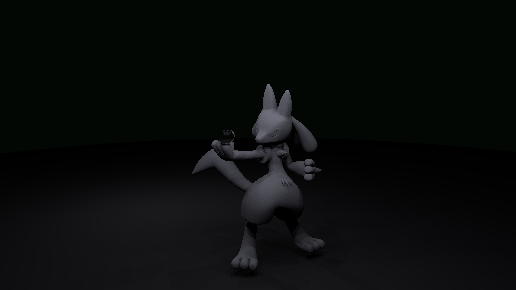
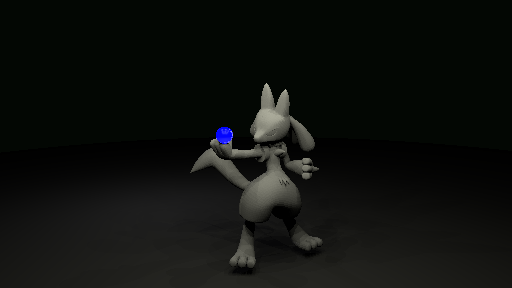
add refraction/reflection, ior

Changed region(s): [[0.375, 0.2812, 0.625, 0.75], [0.4375, 0.8125, 0.5, 0.9375], [0.5625, 0.8125, 0.625, 0.875]]

diff --git a/ray.py b/ray.py
@@ -33,10 +33,8 @@ class Ray:
         self.start = start
         self.end = end
 
-
 class Material:
-
-    def __init__(self, k_d, k_s=0., p=20., k_m=0., k_a=None, texture_filename=None):
+    def __init__(self, k_d, k_s=0., p=20., k_m=0., k_a=None, texture_filename=None, k_t=0., ior=1.0, k_e=0.):
         """Create a new material with the given parameters.
 
         Parameters:
@@ -45,6 +43,10 @@ class Material:
           p : float -- the specular exponent
           k_m : (3,) or float -- the mirror reflection coefficient
           k_a : (3,) -- the ambient coefficient (defaults to match diffuse color)
+          texture_filename : str -- Path to the texture file
+          k_t : (3,) or float -- Transmission (refraction) coefficient (NEW)
+          ior : float -- Index of Refraction (NEW)
+          k_e : (3,) or float -- Emissive coefficient (glow) (NEW)
         """
         self.k_d = k_d
         self.k_s = k_s
@@ -54,7 +56,9 @@ class Material:
         self.texture_map = None
         if texture_filename:
             self.texture_map = load_image(texture_filename)
-
+        self.k_t = k_t
+        self.ior = ior
+        self.k_e = k_e
 
 class Hit:
     def __init__(self, t, point=None, normal=None, material=None, uv=None):
@@ -401,33 +405,23 @@ class PointLight:
         self.intensity = intensity
 
     def illuminate(self, ray, hit, scene, k_a, k_d, k_s, p):
-        """Compute the shading at a surface point due to this light.
-
-        Parameters:
-          ray : Ray -- the ray that hit the surface
-          hit : Hit -- the hit data
-          scene : Scene -- the scene, for shadow rays
-          k_a, k_d, k_s, p : Material properties -- effective material properties at the hit point
-        Return:
-          (3,) -- the light reflected from the surface
-        """
+        """Compute the shading at a surface point due to this light."""
         light_vec_full = self.position - hit.point
         dist_sq = np.dot(light_vec_full, light_vec_full)
         
         light_vec = normalize(light_vec_full)
-
-        # part 5: shadow ray — use fast occlusion test (no full Hit needed)
         dist = np.sqrt(dist_sq)
         eps = 1e-5
         shadow_ray = Ray(
             origin=hit.point + eps * hit.normal,
             direction=light_vec,
-            start=eps,
+            start=0.0,
             end=dist - eps
         )
-        if hasattr(scene, 'is_occluded') and scene.is_occluded(shadow_ray):
+        if scene.is_occluded(shadow_ray):
             return np.zeros(3)
 
+        # Shading
         normal_hit = hit.normal
         view_vec = normalize(ray.origin - hit.point)
         halfway_vec = normalize(light_vec + view_vec)
@@ -437,7 +431,7 @@ class PointLight:
         diffuse = max(0.0, np.dot(normal_hit, light_vec))
         specular  = k_s * (max(0.0, np.dot(normal_hit, halfway_vec)) ** p)
 
-        return (k_d + specular) * intensity_attenuated * diffuse
+        return (k_d * diffuse + specular) * intensity_attenuated
 
 class AmbientLight:
 
@@ -503,64 +497,101 @@ class Scene:
 MAX_DEPTH = 4
 
 def shade(ray, hit, scene, lights, depth=0):
-    """Compute shading for a ray-surface intersection.
-
-    Parameters:
-      ray : Ray -- the ray that hit the surface
-      hit : Hit -- the hit data
-      scene : Scene -- the scene
-      lights : [PointLight or AmbientLight] -- the lights
-      depth : int -- the recursion depth so far
-    Return:
-      (3,) -- the color seen along this ray
-    When mirror reflection is being computed, recursion will only proceed to a depth
-    of MAX_DEPTH, with zero contribution beyond that depth.
-    """
+    """Compute shading for a ray-surface intersection."""
     color = np.array([0.0, 0.0, 0.0])
-
+    mat = hit.material
     tex_color = None
-    if hit.material.texture_map is not None and hit.uv is not None:
-        tex_map = hit.material.texture_map
+    if mat.texture_map is not None and hit.uv is not None:
+        tex_map = mat.texture_map
         uv = hit.uv
         u_coord = uv[0] % 1.0
         v_coord = (1.0 - uv[1]) % 1.0
         
         tex_h, tex_w, _ = tex_map.shape
-        
-        x = int(u_coord * tex_w)
-        y = int(v_coord * tex_h)
-        
-        x = min(max(x, 0), tex_w - 1)
-        y = min(max(y, 0), tex_h - 1)
+        x = int(u_coord * (tex_w - 1))
+        y = int(v_coord * (tex_h - 1))
         
         tex_color = tex_map[y, x]
   
-    k_d_eff = tex_color if tex_color is not None else hit.material.k_d
-    k_s_eff = hit.material.k_s
-    p_eff = hit.material.p
-    k_m_eff = hit.material.k_m
-    
-    k_a_eff = hit.material.k_a
-    if tex_color is not None and np.array_equal(hit.material.k_a, hit.material.k_d):
+    k_d_eff = tex_color if tex_color is not None else mat.k_d
+    k_s_eff = mat.k_s
+    p_eff = mat.p
+    k_m_eff = mat.k_m
+    k_a_eff = mat.k_a
+    if tex_color is not None and np.array_equal(mat.k_a, mat.k_d):
         k_a_eff = tex_color
-
+    
+    k_t_eff = mat.k_t
+    ior_eff = mat.ior
+    k_e_eff = mat.k_e
     for light in lights:
         color += light.illuminate(ray, hit, scene, k_a_eff, k_d_eff, k_s_eff, p_eff)
 
-    if np.any(k_m_eff > 0) and depth < MAX_DEPTH:
-        hit_norm = hit.normal
-        direction_norm = normalize(ray.direction)
-        reflection_direction = normalize(direction_norm - 2.0 * np.dot(direction_norm, hit_norm) * hit_norm)
+    hit_norm = hit.normal
+    view_vec = normalize(ray.origin - hit.point)
+    eps = 1e-5 
 
-        eps = 1e-5
-        reflection_ray = Ray(origin=hit.point + eps * hit_norm, direction=reflection_direction)
+    if np.any(k_m_eff > 0) and depth < MAX_DEPTH:
+        reflection_dir = normalize(2.0 * np.dot(view_vec, hit_norm) * hit_norm - view_vec)
+        reflection_ray = Ray(origin=hit.point + eps * hit_norm, direction=reflection_dir)
+        
         reflection_hit = scene.intersect(reflection_ray)
         if reflection_hit.t < np.inf:
             reflection_color = shade(reflection_ray, reflection_hit, scene, lights, depth + 1)
         else:
             reflection_color = scene.bg_color
-
         color += np.array(k_m_eff) * reflection_color
+        
+    if np.any(k_t_eff > 0) and depth < MAX_DEPTH:
+        eta_in = 1.0
+        eta_out = ior_eff 
+        
+        cos_i = np.dot(hit_norm, view_vec)
+        
+        incident_norm = hit_norm
+        if cos_i < 0:
+            cos_i = -cos_i
+            eta_in, eta_out = eta_out, eta_in
+            incident_norm = -hit_norm
+        
+        eta = eta_in / eta_out
+        k = 1.0 - eta*eta * (1.0 - cos_i*cos_i)
+        
+        R0 = ((eta_in - eta_out) / (eta_in + eta_out))**2
+        reflectance = R0 + (1.0 - R0) * (1.0 - cos_i)**5
+        
+        if k < 0:
+            reflection_dir = normalize(view_vec - 2.0 * np.dot(view_vec, incident_norm) * incident_norm)
+            reflection_ray = Ray(origin=hit.point + eps * incident_norm, direction=reflection_dir)
+            reflection_hit = scene.intersect(reflection_ray)
+            if reflection_hit.t < np.inf:
+                reflection_color = shade(reflection_ray, reflection_hit, scene, lights, depth + 1)
+            else:
+                reflection_color = scene.bg_color
+            color += np.array(k_t_eff) * reflection_color
+        
+        else:
+            refraction_dir = normalize(eta * (view_vec - incident_norm * cos_i) - incident_norm * np.sqrt(k))
+            refraction_ray = Ray(origin=hit.point - eps * incident_norm, direction=refraction_dir) # Move origin "inside"
+            
+            refraction_hit = scene.intersect(refraction_ray)
+            if refraction_hit.t < np.inf:
+                refraction_color = shade(refraction_ray, refraction_hit, scene, lights, depth + 1)
+            else:
+                refraction_color = scene.bg_color
+            
+            reflection_dir = normalize(view_vec - 2.0 * cos_i * incident_norm)
+            reflection_ray = Ray(origin=hit.point + eps * incident_norm, direction=reflection_dir) # Move origin "outside"
+            
+            reflection_hit = scene.intersect(reflection_ray)
+            if reflection_hit.t < np.inf:
+                reflection_color = shade(reflection_ray, reflection_hit, scene, lights, depth + 1)
+            else:
+                reflection_color = scene.bg_color
+
+            color += np.array(k_t_eff) * (reflectance * reflection_color + (1.0 - reflectance) * refraction_color)
+
+    color += np.array(k_e_eff)
         
     return color
 

diff --git a/pokemon_scene.py b/pokemon_scene.py
@@ -33,7 +33,11 @@ ball_mat = Material(
     k_s=vec([0.8, 0.8, 0.8]),  # white highlight
     p=200.0,
     k_m=vec([0.8, 0.8, 0.8]),
-    k_a=vec([0.05, 0.1, 0.2])
+    k_a=vec([20.0, 20.0, 20.0]),
+    # Strong blue emissive term so the ball surface visibly glows
+    # (emissive contribution is surface-only in this renderer)
+    k_e=vec([0.0, 0.0, 2.5]),
+    ior=1.33
 )
 
 pokemon_mat.k_d = vec([0.02, 0.04, 0.08])  # dark blue base tint
@@ -86,7 +90,7 @@ def make_area_lights(center, radius, total_intensity, n=3):
 # key light above model
 key_center = center + vec([0.0, extents[1] * 0.9, radius * 1.0])
 # very dim
-key_intensity = vec([0.2, 0.2, 0.25])  # total intensity for the area light
+key_intensity = vec([0.5, 0.5, 0.4])  # total intensity for the area light
 key_lights = make_area_lights(key_center, radius * 0.6, key_intensity, n=3)
 
 # very faint rim/back light
